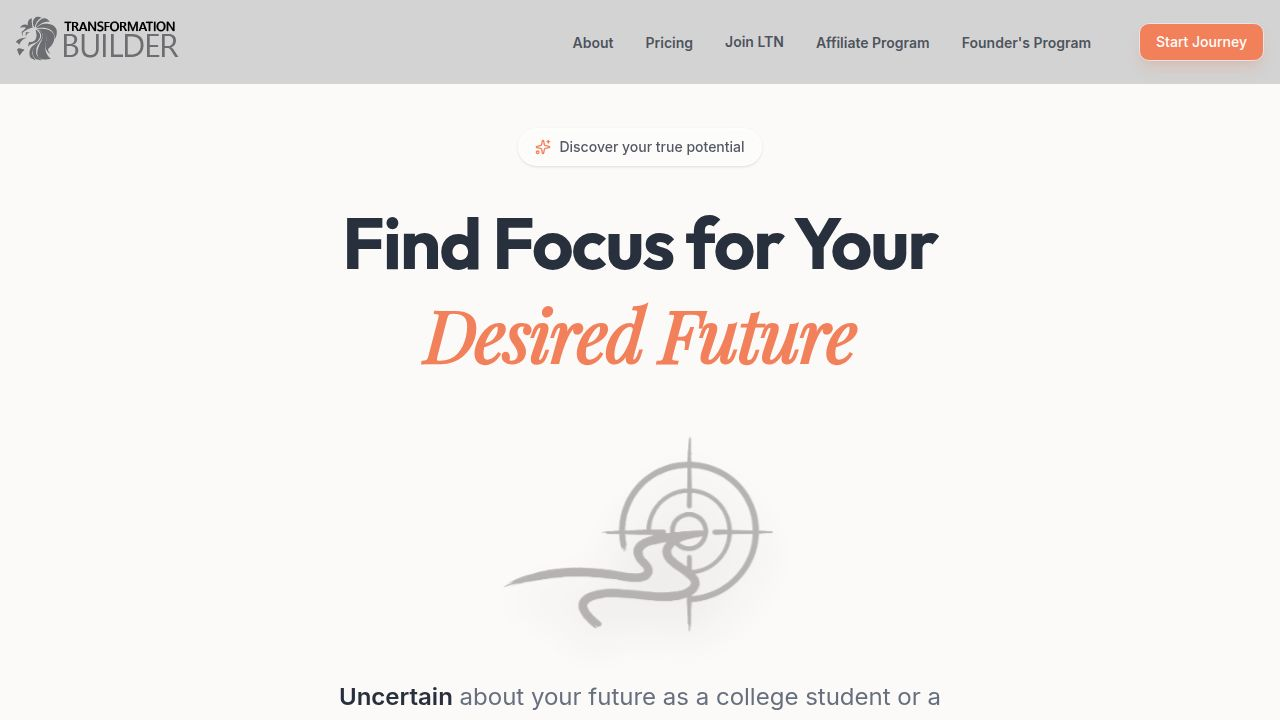
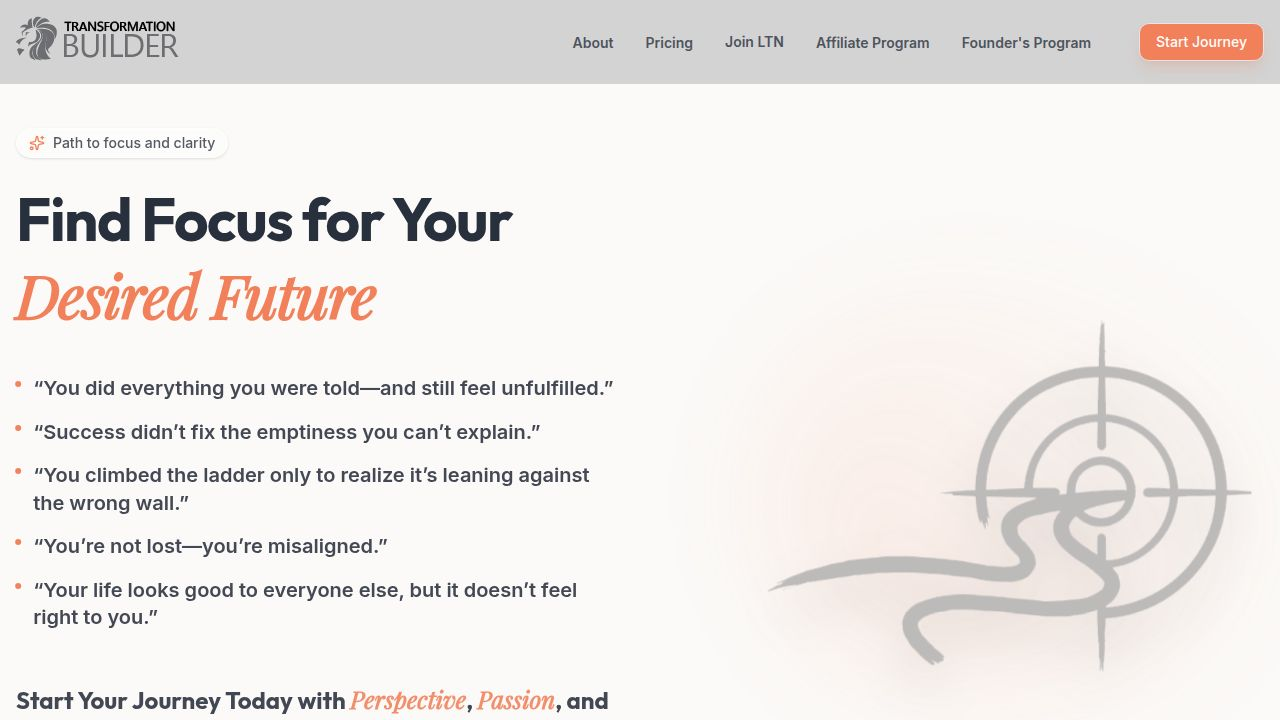
Redesign homepage hero section to better capture user attention
Update client/src/components/hero.tsx to implement a two-column layout for the hero section, featuring a new headline, subheadline, and compelling statements above the fold, along with a target image with a glow effect.

Replit-Commit-Author: Agent
Replit-Commit-Session-Id: 2f27e978-f5d9-495f-af94-c9a188f07dc2
Replit-Commit-Checkpoint-Type: full_checkpoint
Replit-Commit-Event-Id: af0a2917-a9f9-4a7b-96a9-26cfe3b08fbd
Replit-Commit-Screenshot-Url: https://storage.googleapis.com/screenshot-production-us-central1/e830f26d-e299-42ff-93b1-da7f363f46a7/2f27e978-f5d9-495f-af94-c9a188f07dc2/APBUqEW
Replit-Helium-Checkpoint-Created: true

diff --git a/client/src/components/hero.tsx b/client/src/components/hero.tsx
@@ -1,6 +1,6 @@
 import { Button, buttonVariants } from "@/components/ui/button";
 import { motion } from "framer-motion";
-import { ArrowRight, Sparkles } from "lucide-react";
+import { ArrowRight, Sparkles, CheckCircle2 } from "lucide-react";
 import { Link } from "wouter";
 import heroBg from "@assets/backgroundhmpg_1765929083902.jpg";
 import targetImage from "@assets/pathtargetlogo_1765576089902.png";
@@ -8,7 +8,7 @@ import { cn } from "@/lib/utils";
 
 export function Hero() {
   return (
-    <section className="relative flex items-center pt-32 pb-0 overflow-hidden min-h-[90vh]">
+    <section className="relative flex items-center pt-24 pb-12 lg:pt-32 lg:pb-0 overflow-hidden min-h-[90vh]">
       {/* Background */}
       <div className="absolute inset-0 -z-10">
         <img
@@ -17,85 +17,101 @@ export function Hero() {
           className="w-full h-full object-cover opacity-90"
         />
         <div className="absolute inset-0 bg-gradient-to-b from-transparent via-background/20 to-background" />
+        <div className="absolute inset-0 bg-background/30 backdrop-blur-[1px]" />
       </div>
 
       <div className="container mx-auto px-4 relative z-10">
-        <div className="flex flex-col items-center gap-12 justify-center text-center">
-          <div className="max-w-4xl mx-auto">
-            <motion.div
-              initial={{ opacity: 0, y: 20 }}
-              animate={{ opacity: 1, y: 0 }}
-              transition={{ duration: 0.6, ease: "easeOut" }}
-              className="flex justify-center"
-            >
-              <div className="inline-flex items-center gap-2 px-4 py-2 rounded-full bg-white/40 backdrop-blur-md border border-white/50 shadow-sm mb-8">
+        <div className="grid lg:grid-cols-2 gap-12 items-center">
+          
+          {/* Left Column: Text & Quotes */}
+          <div className="flex flex-col gap-8 text-left max-w-2xl mx-auto lg:mx-0">
+            <div>
+              <motion.div
+                initial={{ opacity: 0, x: -20 }}
+                animate={{ opacity: 1, x: 0 }}
+                transition={{ duration: 0.6, ease: "easeOut" }}
+                className="inline-flex items-center gap-2 px-3 py-1 rounded-full bg-white/40 backdrop-blur-md border border-white/50 shadow-sm mb-6"
+              >
                 <Sparkles className="w-4 h-4 text-primary" />
                 <span className="text-sm font-medium text-foreground/80">
-                  Discover your true potential
+                  Path to focus and clarity
                 </span>
-              </div>
-            </motion.div>
-
-            <motion.h1
-              initial={{ opacity: 0, y: 20 }}
-              animate={{ opacity: 1, y: 0 }}
-              transition={{ duration: 0.6, delay: 0.1, ease: "easeOut" }}
-              className="text-5xl md:text-7xl font-heading font-bold leading-tight tracking-tight text-foreground mb-6"
-            >
-              Find Focus for Your <br />
-              <span className="text-primary italic font-serif">Desired Future</span>
-            </motion.h1>
-
-            <div className="flex justify-center w-full my-8">
-              <motion.div
-                initial={{ opacity: 0, scale: 0.8 }}
-                animate={{ opacity: 1, scale: 1 }}
-                transition={{ duration: 0.8, delay: 0.3, ease: "easeOut" }}
-              >
-                <img 
-                  src={targetImage} 
-                  alt="Path to focus and clarity" 
-                  className="w-full max-w-[14rem] md:max-w-[16rem] lg:max-w-[18rem] object-contain drop-shadow-2xl"
-                />
               </motion.div>
+
+              <motion.h1
+                initial={{ opacity: 0, x: -20 }}
+                animate={{ opacity: 1, x: 0 }}
+                transition={{ duration: 0.6, delay: 0.1, ease: "easeOut" }}
+                className="text-4xl md:text-6xl font-heading font-bold leading-tight tracking-tight text-foreground mb-2"
+              >
+                Find Focus for Your <br />
+                <span className="text-primary italic font-serif">Desired Future</span>
+              </motion.h1>
             </div>
 
             <motion.div
-              initial={{ opacity: 0, y: 20 }}
-              animate={{ opacity: 1, y: 0 }}
+              initial={{ opacity: 0, x: -20 }}
+              animate={{ opacity: 1, x: 0 }}
               transition={{ duration: 0.6, delay: 0.2, ease: "easeOut" }}
-              className="flex flex-col gap-4 max-w-3xl mx-auto mb-10 text-xl md:text-2xl font-bold text-foreground/90 leading-snug"
+              className="space-y-4"
             >
-              <p>“You did everything you were told—and still feel unfulfilled.”</p>
-              <p>“Success didn’t fix the emptiness you can’t explain.”</p>
-              <p>“You climbed the ladder only to realize it’s leaning against the wrong wall.”</p>
-              <p>“You’re not lost—you’re misaligned.”</p>
-              <p>“Your life looks good to everyone else, but it doesn’t feel right to you.”</p>
+              {[
+                "You did everything you were told—and still feel unfulfilled.",
+                "Success didn’t fix the emptiness you can’t explain.",
+                "You climbed the ladder only to realize it’s leaning against the wrong wall.",
+                "You’re not lost—you’re misaligned.",
+                "Your life looks good to everyone else, but it doesn’t feel right to you."
+              ].map((quote, index) => (
+                <div key={index} className="flex items-start gap-3">
+                  <div className="mt-1.5 min-w-[6px] h-[6px] rounded-full bg-primary" />
+                  <p className="text-lg md:text-xl font-bold text-foreground/90 leading-snug">
+                    “{quote}”
+                  </p>
+                </div>
+              ))}
             </motion.div>
 
-            <motion.h2
+            <motion.div
               initial={{ opacity: 0, y: 20 }}
               animate={{ opacity: 1, y: 0 }}
-              transition={{ duration: 0.6, delay: 0.22, ease: "easeOut" }}
-              className="text-3xl md:text-4xl font-heading font-bold text-foreground mb-4"
+              transition={{ duration: 0.6, delay: 0.3, ease: "easeOut" }}
+              className="pt-4"
             >
-              Start Your Journey Today<br />with <span className="text-primary italic font-serif">Perspective</span><span className="text-primary">,</span> <span className="text-primary italic font-serif">Passion</span><span className="text-primary">,</span> and <span className="text-primary italic font-serif">Purpose</span><span className="text-primary">!</span>
-            </motion.h2>
-
-            <motion.p
-              initial={{ opacity: 0, y: 20 }}
-              animate={{ opacity: 1, y: 0 }}
-              transition={{ duration: 0.6, delay: 0.25, ease: "easeOut" }}
-              className="text-lg text-foreground/80 font-medium md:text-xl max-w-2xl mx-auto mb-10 leading-relaxed"
-            >
-              We provide the tools and structure to move from confusion to clarity.
-            </motion.p>
+              <h2 className="text-2xl font-heading font-bold text-foreground mb-6">
+                Start Your Journey Today with <span className="text-primary italic font-serif">Perspective</span>, <span className="text-primary italic font-serif">Passion</span>, and <span className="text-primary italic font-serif">Purpose</span>!
+              </h2>
+              
+              <Link href="/signup">
+                <Button size="lg" className="text-lg px-8 py-6 shadow-xl shadow-primary/20 hover:scale-105 transition-transform">
+                  Start Your 5-Day Trial
+                  <ArrowRight className="ml-2 h-5 w-5" />
+                </Button>
+              </Link>
+            </motion.div>
           </div>
+
+          {/* Right Column: Image */}
+          <motion.div
+            initial={{ opacity: 0, scale: 0.9, x: 20 }}
+            animate={{ opacity: 1, scale: 1, x: 0 }}
+            transition={{ duration: 0.8, delay: 0.3, ease: "easeOut" }}
+            className="flex justify-center lg:justify-end"
+          >
+            <div className="relative">
+              <div className="absolute inset-0 bg-gradient-to-tr from-primary/20 to-transparent rounded-full blur-3xl -z-10" />
+              <img 
+                src={targetImage} 
+                alt="Path to focus and clarity" 
+                className="w-full max-w-md md:max-w-lg object-contain drop-shadow-2xl"
+              />
+            </div>
+          </motion.div>
+
         </div>
       </div>
       
       {/* Abstract Shapes */}
-      <div className="absolute bottom-0 left-0 right-0 h-32 bg-gradient-to-t from-background to-transparent z-20" />
+      <div className="absolute bottom-0 left-0 right-0 h-24 bg-gradient-to-t from-background to-transparent z-20" />
     </section>
   );
 }
